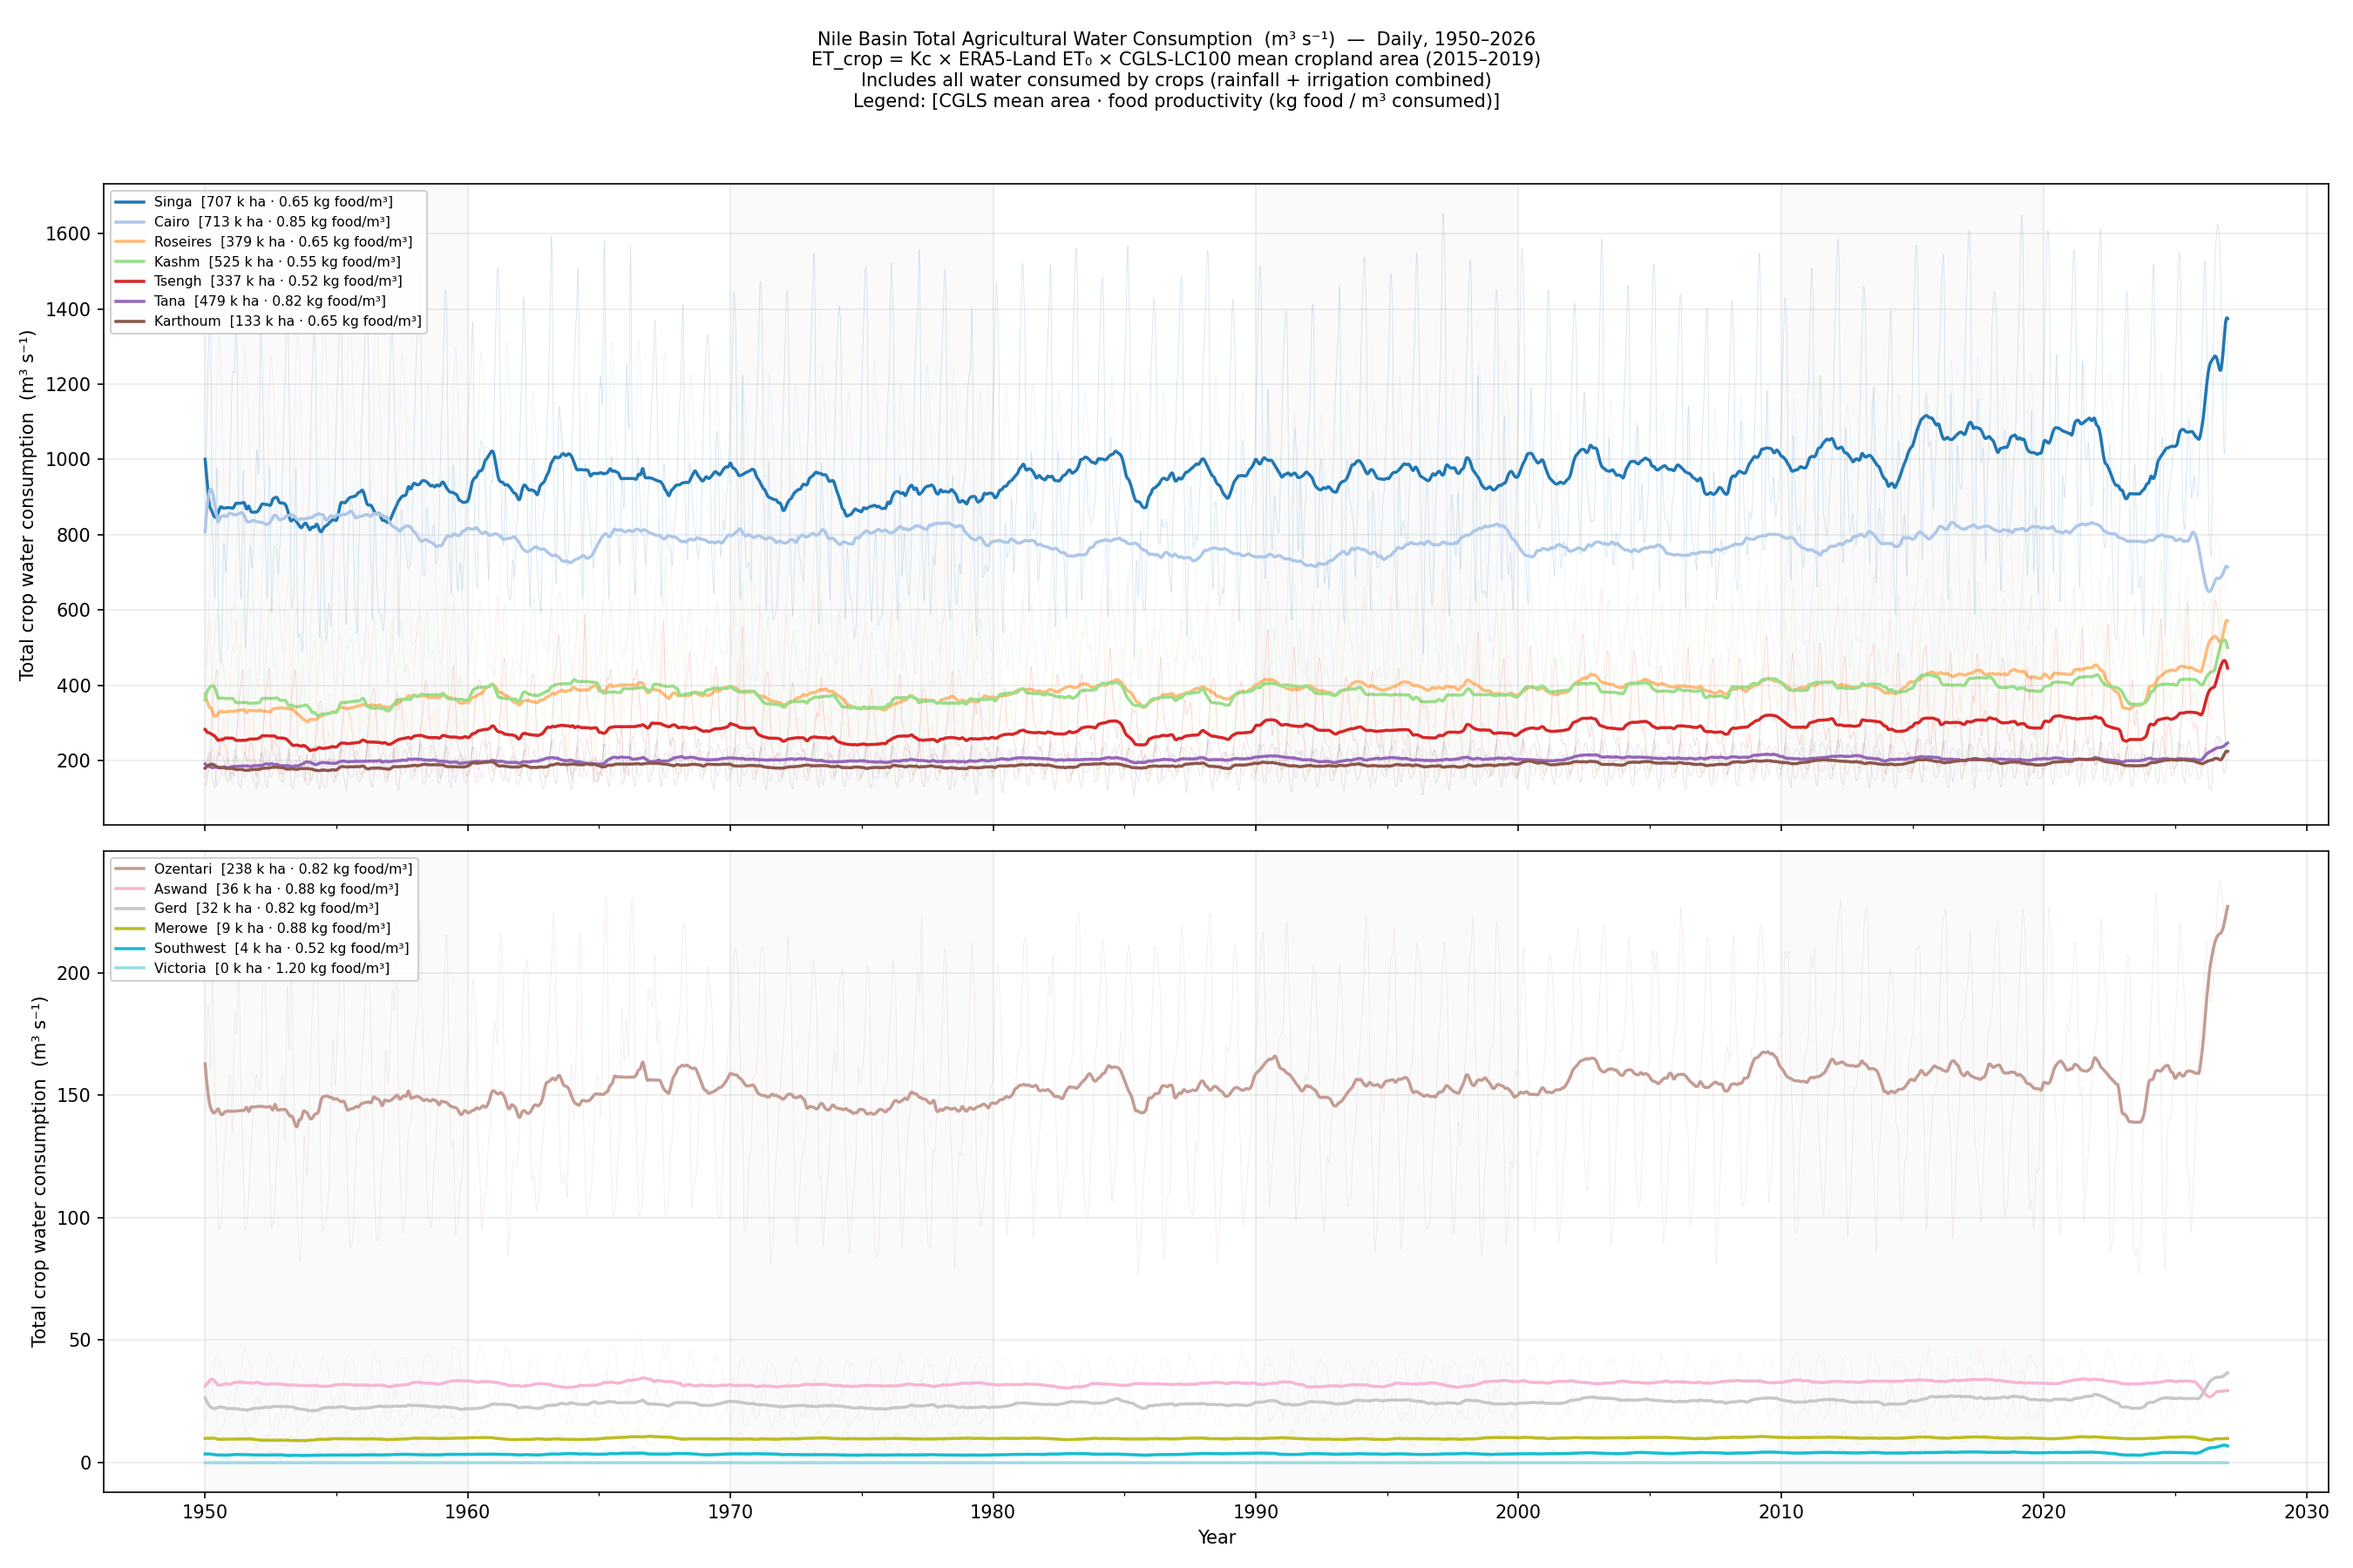
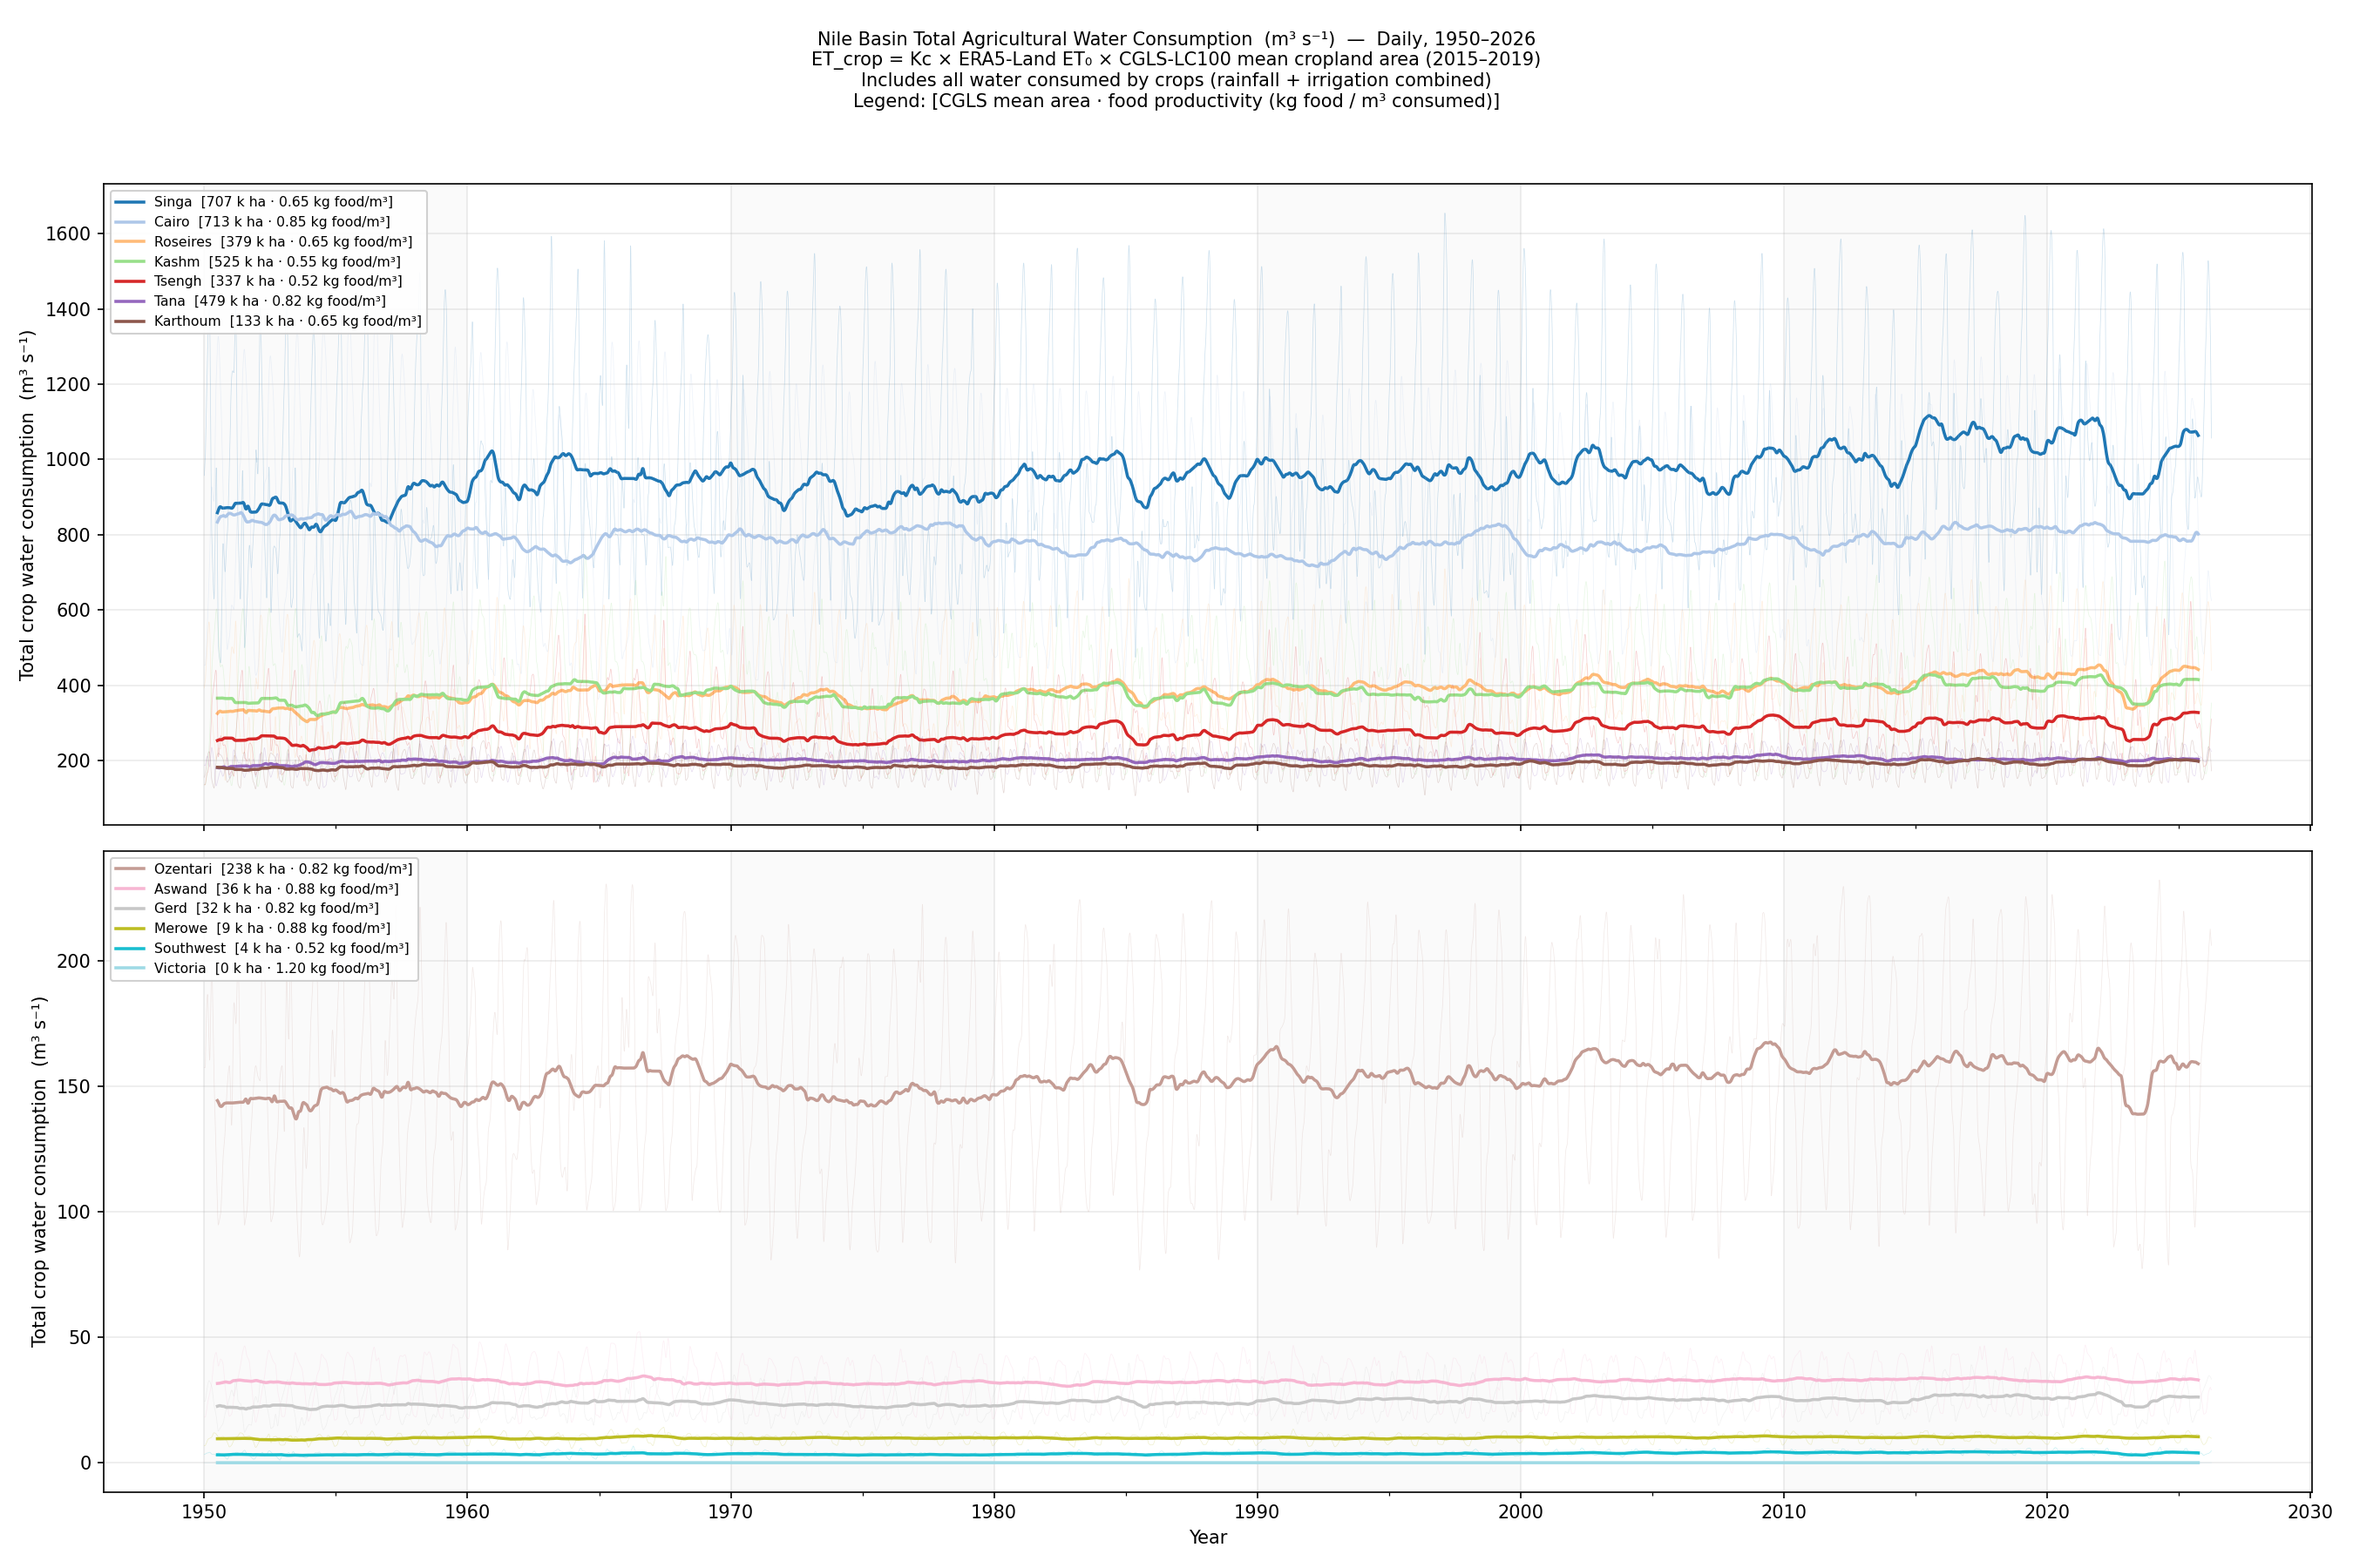
update agriculture

diff --git a/main/modules/food_production/nile_crop_water.py b/main/modules/food_production/nile_crop_water.py
@@ -105,9 +105,11 @@ def load_era5_daily(node_id: str) -> pd.Series:
     """
     Load the cached monthly ERA5 ET₀ CSV for *node_id* and interpolate
     to daily resolution using PCHIP (same method as copernicus_egypt_agriculture.py).
+    The series is clipped to the last real ERA5 data month; dates beyond that
+    are excluded so they don't contaminate the plot tail.
     """
-    slug = re.sub(r"\W+", "_", node_id.lower()).strip("_")
-    csv  = ERA5_DIR / f"{slug}_{YEAR_FROM}_{YEAR_TO}.csv"
+    slug  = re.sub(r"\W+", "_", node_id.lower()).strip("_")
+    csv   = ERA5_DIR / f"{slug}_{YEAR_FROM}_{YEAR_TO}.csv"
     if not csv.exists():
         raise FileNotFoundError(
             f"ERA5 cache not found: {csv}\n"
@@ -117,12 +119,17 @@ def load_era5_daily(node_id: str) -> pd.Series:
     monthly = pd.read_csv(csv, index_col=0, parse_dates=True).squeeze("columns")
     monthly.name = "et0_mm_day"
 
+    # Last month that is not a flat extension (last month with a real observation)
+    last_real_month = monthly.index[monthly.diff().abs() > 0].max()
+    # Keep up to last day of that month for the daily output
+    last_day = last_real_month + pd.offsets.MonthEnd(0)
+
     # Assign each monthly value to the 15th and PCHIP-interpolate
     mid     = monthly.copy()
     mid.index = pd.DatetimeIndex(
         [pd.Timestamp(t.year, t.month, 15) for t in monthly.index]
     )
-    daily_idx = pd.date_range(f"{YEAR_FROM}-01-01", f"{YEAR_TO}-12-31", freq="D")
+    daily_idx = pd.date_range(f"{YEAR_FROM}-01-01", last_day, freq="D")
     epoch     = pd.Timestamp(f"{YEAR_FROM}-01-01")
     x_m = np.array([(t - epoch).days for t in mid.index],   dtype=float)
     x_d = np.array([(t - epoch).days for t in daily_idx], dtype=float)
@@ -258,8 +265,8 @@ def make_plot(results: list[dict]) -> None:
             # Daily thin line
             ax.plot(s.index, s.values, linewidth=0.35, alpha=0.22, color=color)
 
-            # 365-day rolling mean (bold)
-            roll = s.rolling(365, center=True, min_periods=90).mean()
+            # 365-day rolling mean — require full window so edges don't show
+            roll = s.rolling(365, center=True, min_periods=365).mean()
             label = (
                 f"{nid.capitalize()}"
                 f"  [{zdata['area_ha'] / 1e3:,.0f} k ha"
